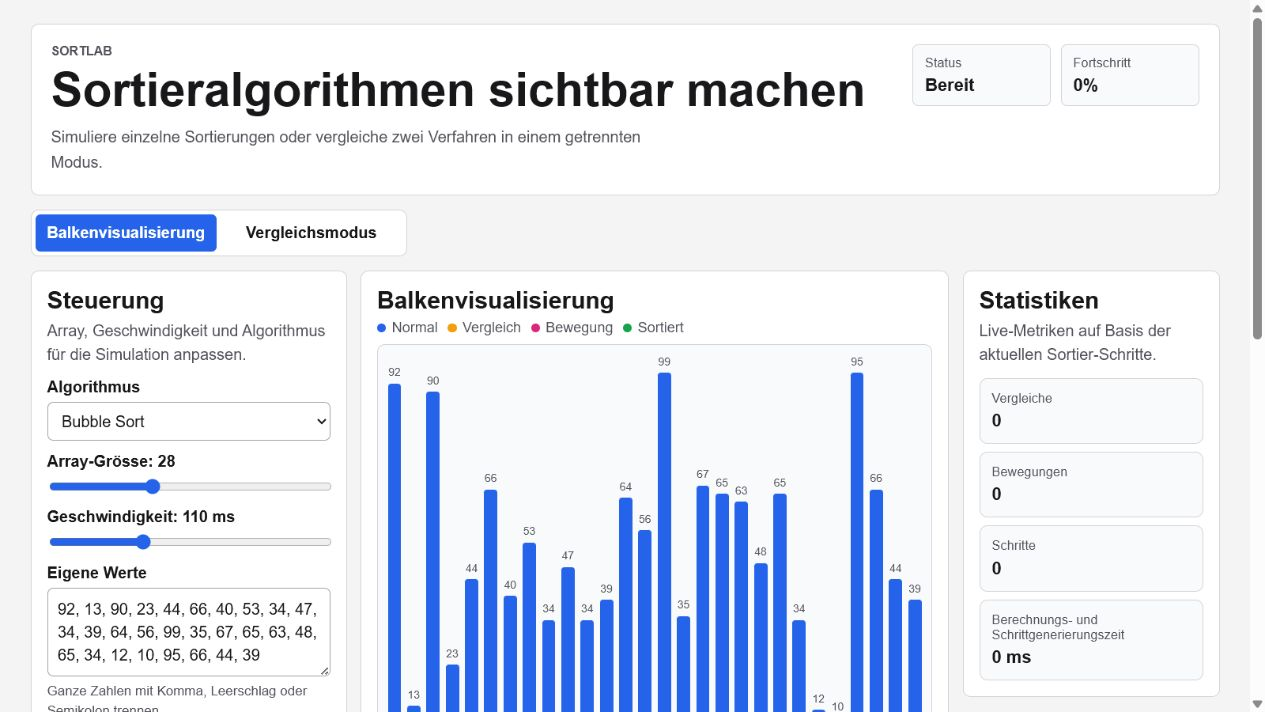
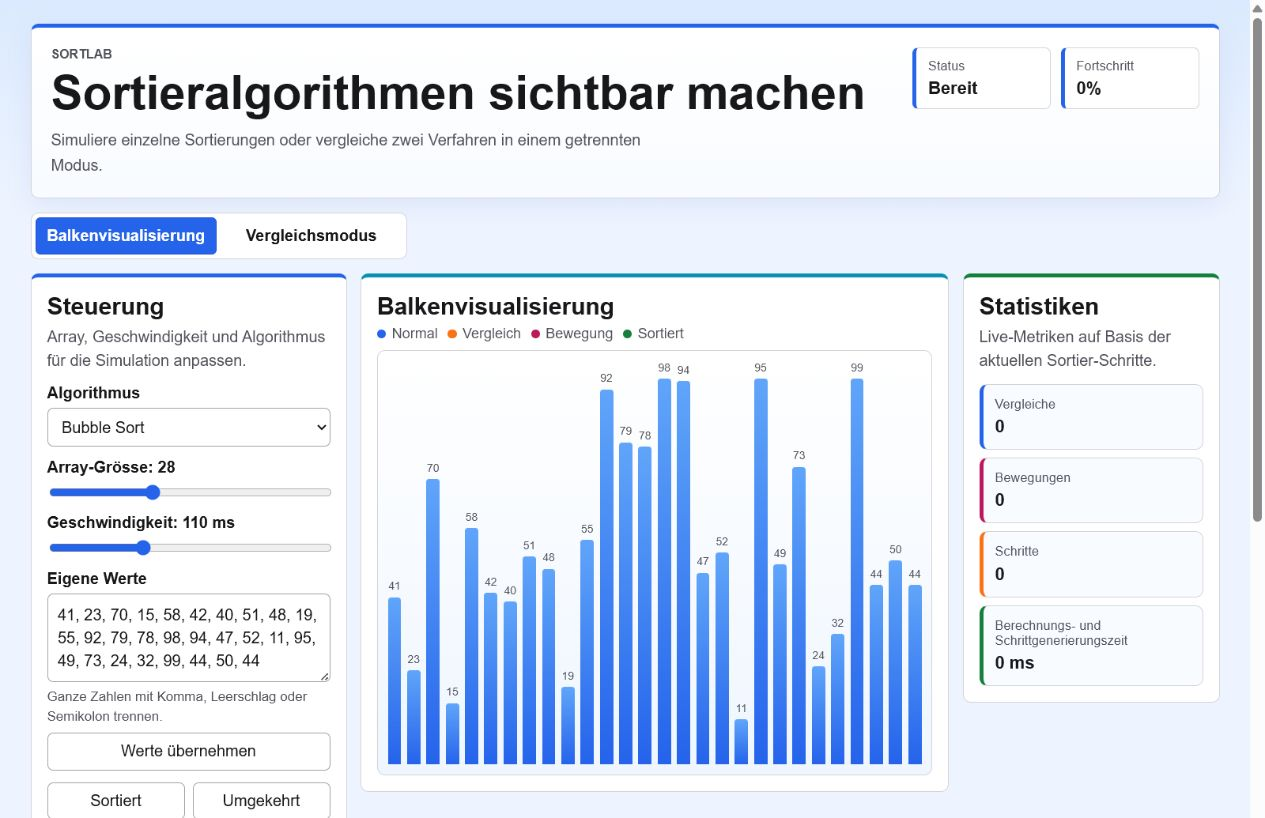
Fix Pages deployment and update UI colors

diff --git a/src/styles.css b/src/styles.css
@@ -1,18 +1,22 @@
 :root {
   color-scheme: light;
-  --bg: #f4f4f5;
+  --bg: #eef4ff;
   --panel: #ffffff;
-  --panel-soft: #f8fafc;
+  --panel-soft: #f8fbff;
   --line: #d4d4d8;
   --line-strong: #a1a1aa;
   --text: #18181b;
   --muted: #52525b;
   --accent: #2563eb;
   --accent-dark: #1d4ed8;
-  --compare: #f59e0b;
-  --move: #db2777;
-  --sorted: #16a34a;
+  --accent-soft: #dbeafe;
+  --compare: #f97316;
+  --move: #be185d;
+  --sorted: #15803d;
   --base: #2563eb;
+  --cyan: #0891b2;
+  --purple: #7c3aed;
+  --warning: #d97706;
 }
 
 * {
@@ -24,7 +28,9 @@ body {
   min-height: 100vh;
   font-family: Arial, Helvetica, sans-serif;
   color: var(--text);
-  background: var(--bg);
+  background:
+    linear-gradient(180deg, #dbeafe 0, var(--bg) 220px),
+    var(--bg);
 }
 
 button,
@@ -62,6 +68,9 @@ textarea {
   justify-content: space-between;
   gap: 20px;
   padding: 20px;
+  border-top: 4px solid var(--accent);
+  background: linear-gradient(180deg, #ffffff 0%, #f8fbff 100%);
+  box-shadow: 0 8px 24px rgba(30, 64, 175, 0.08);
 }
 
 .eyebrow {
@@ -102,7 +111,8 @@ h1 {
   padding: 10px 12px;
   border: 1px solid var(--line);
   border-radius: 6px;
-  background: var(--panel-soft);
+  background: #ffffff;
+  border-left: 4px solid var(--accent);
 }
 
 .metric-chip span,
@@ -129,7 +139,7 @@ h1 {
   padding: 4px;
   border: 1px solid var(--line);
   border-radius: 8px;
-  background: var(--panel);
+  background: #ffffff;
 }
 
 .mode-tabs button {
@@ -143,6 +153,7 @@ h1 {
 .mode-tabs button.active {
   color: #ffffff;
   background: var(--accent);
+  border-color: var(--accent-dark);
 }
 
 .dashboard {
@@ -160,6 +171,26 @@ h1 {
 .panel {
   padding: 16px;
   align-self: start;
+}
+
+.controls-panel {
+  border-top: 4px solid var(--accent);
+}
+
+.visualizer-panel {
+  border-top: 4px solid var(--cyan);
+}
+
+.stats-panel {
+  border-top: 4px solid var(--sorted);
+}
+
+.theory-panel {
+  border-top: 4px solid var(--warning);
+}
+
+.compare-panel {
+  border-top: 4px solid var(--purple);
 }
 
 .controls-panel,
@@ -229,7 +260,7 @@ button {
 }
 
 button:hover {
-  background: #f1f5f9;
+  background: var(--accent-soft);
   border-color: var(--accent);
   transform: translateY(-1px);
 }
@@ -262,6 +293,11 @@ button.primary.accent:hover {
 
 button.secondary {
   background: #ffffff;
+}
+
+button.secondary:hover {
+  background: #fff7ed;
+  border-color: var(--compare);
 }
 
 .full-width {
@@ -344,7 +380,7 @@ button.secondary {
   min-height: 430px;
   border: 1px solid var(--line);
   border-radius: 8px;
-  background: var(--panel-soft);
+  background: linear-gradient(180deg, #ffffff 0%, #eff6ff 100%);
   overflow: hidden;
 }
 
@@ -376,7 +412,7 @@ button.secondary {
   width: 100%;
   min-height: 16px;
   border-radius: 3px 3px 0 0;
-  background: var(--base);
+  background: linear-gradient(180deg, #60a5fa 0%, var(--base) 100%);
   transition: height 0.18s ease, background-color 0.18s ease, transform 0.14s ease, opacity 0.14s ease;
 }
 
@@ -391,15 +427,15 @@ button.secondary {
 }
 
 .bar.compare {
-  background: var(--compare);
+  background: linear-gradient(180deg, #fdba74 0%, var(--compare) 100%);
 }
 
 .bar.swap {
-  background: var(--move);
+  background: linear-gradient(180deg, #f472b6 0%, var(--move) 100%);
 }
 
 .bar.sorted {
-  background: var(--sorted);
+  background: linear-gradient(180deg, #4ade80 0%, var(--sorted) 100%);
 }
 
 .stats-grid,
@@ -417,6 +453,30 @@ button.secondary {
   border-radius: 8px;
   background: var(--panel-soft);
   transition: border-color 0.16s ease, background-color 0.16s ease;
+}
+
+.stat-card:nth-child(1) {
+  border-left: 4px solid var(--accent);
+}
+
+.stat-card:nth-child(2) {
+  border-left: 4px solid var(--move);
+}
+
+.stat-card:nth-child(3) {
+  border-left: 4px solid var(--compare);
+}
+
+.stat-card:nth-child(4) {
+  border-left: 4px solid var(--sorted);
+}
+
+.info-card {
+  border-left: 4px solid var(--warning);
+}
+
+.compare-card {
+  border-left: 4px solid var(--purple);
 }
 
 .stat-card:hover,
@@ -549,5 +609,21 @@ button.secondary {
 
   .chart {
     gap: 4px;
+  }
+}
+
+@media (prefers-reduced-motion: reduce) {
+  *,
+  *::before,
+  *::after {
+    transition-duration: 0.01ms !important;
+    animation-duration: 0.01ms !important;
+    animation-iteration-count: 1 !important;
+    scroll-behavior: auto !important;
+  }
+
+  button:hover,
+  .bar-wrap:hover .bar {
+    transform: none;
   }
 }